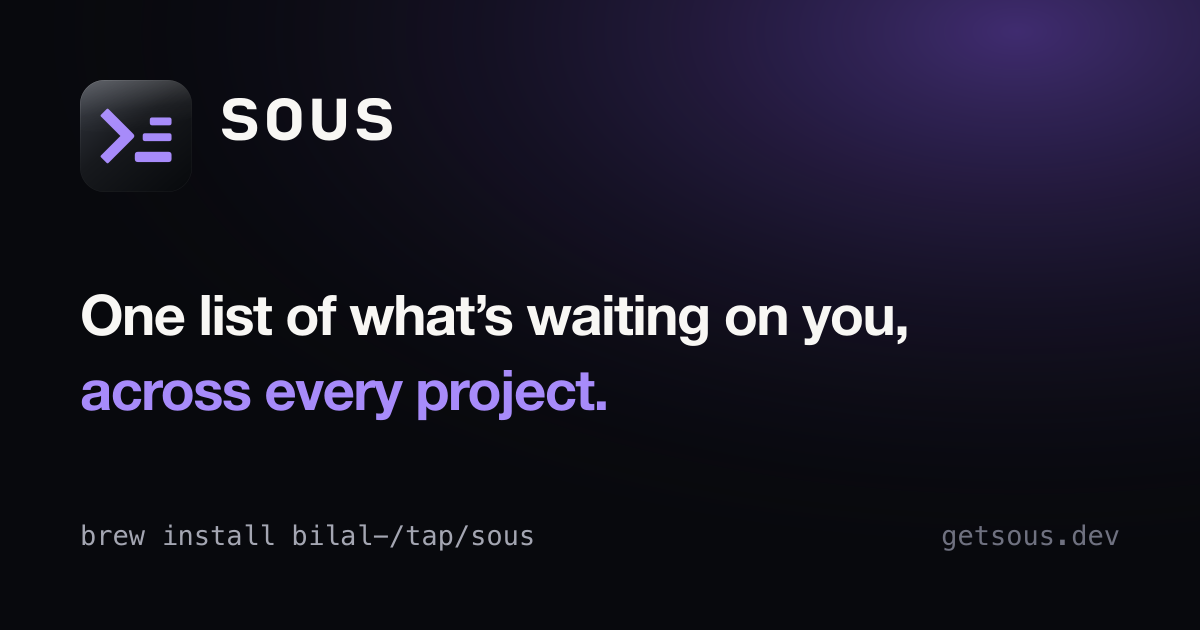
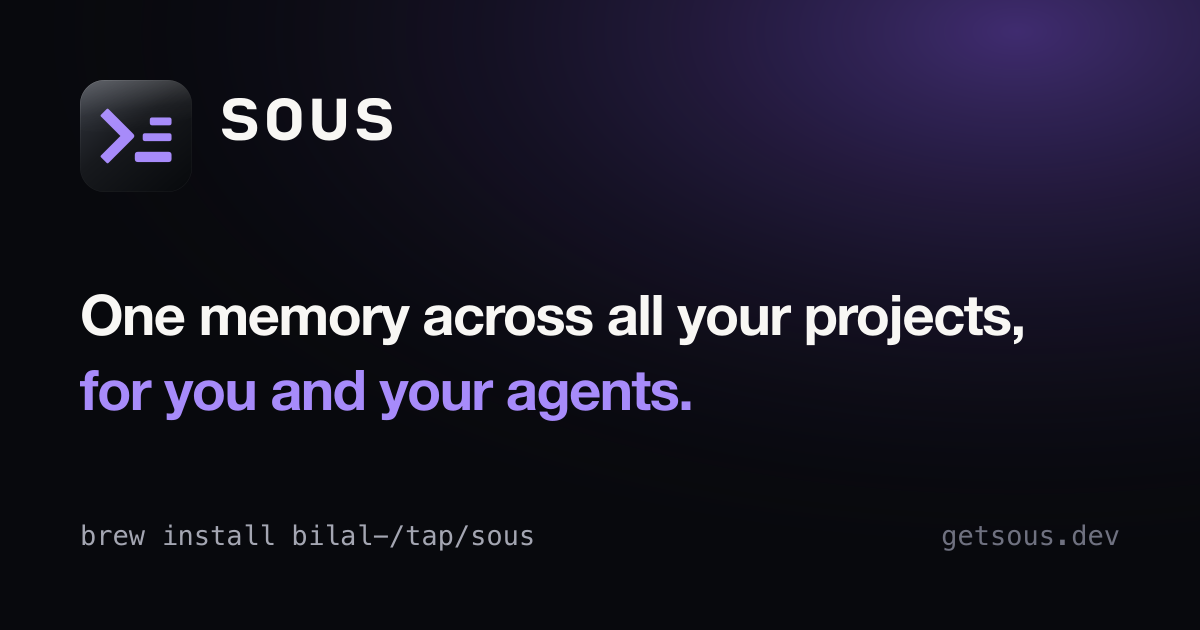
One memory across all your projects, for you and your agents
The pitch now leads with what sous is for: each agent's memory and yours
stays inside one repo, and sous brings what's waiting, where you left off
and what was decided into one place across every project. README, sous
help, the board header, the design doc, the brand kit and the social card
all say it the same way.

Changed region(s): [[0.1542, 0.4524, 0.8633, 0.5429], [0.0617, 0.573, 0.5858, 0.6635]]

diff --git a/internal/board/board.go b/internal/board/board.go
@@ -200,7 +200,7 @@ func waitsOn(after, open []int) string {
 // Header is the line sous prints above the board in a terminal: which sous
 // this is (exe, with ~ for home) and what it does.
 func Header(exe string) string {
-	return "sous · " + exe + " · what is waiting on you across every project"
+	return "sous · " + exe + " · one memory across all your projects"
 }
 
 func Render(w io.Writer, d *Data) { RenderSaved(w, d, d.RenderedAt) }

diff --git a/internal/cli/cli.go b/internal/cli/cli.go
@@ -36,7 +36,7 @@ const (
 // A plain go build says dev, never a release it is not.
 var Version = "dev"
 
-const usageHeader = `sous %s: one list of what is waiting on you, across every project.
+const usageHeader = `sous %s: one memory across all your projects, for you and your agents.
 
   sous              the board: what's waiting on you across all projects
   sous <folder>     board scoped to a folder of repos

diff --git a/internal/cli/axi_test.go b/internal/cli/axi_test.go
@@ -39,7 +39,7 @@ func TestAXI8ContentFirst(t *testing.T) {
 		t.Fatalf("%d\n%s", code, out)
 	}
 	exe, _ := os.Executable()
-	if !strings.Contains(out, stableExe(exe)) || !strings.Contains(out, "what is waiting on you across every project") {
+	if !strings.Contains(out, stableExe(exe)) || !strings.Contains(out, "one memory across all your projects") {
 		t.Fatalf("missing executable and purpose: %s", out)
 	}
 }

diff --git a/README.md b/README.md
@@ -11,20 +11,27 @@
 [![Go](https://img.shields.io/github/go-mod/go-version/bilal-/sous)](go.mod)
 [![AXI](https://img.shields.io/badge/agent%20friendly-AXI-8a2be2)](https://axi.md)
 
-One list of what's waiting on you, across every project you work on.
+One memory across all your projects, for you and your agents.
 
 **[getsous.dev](https://getsous.dev)**
 
-AI tools make it easy to keep ten or twenty projects moving at once. Keeping
-track of them is the hard part. Which project has a review waiting for me?
-Where did I leave off in this one? What did I promise to come back to?
+Each agent's memory stays inside the repo it worked in, and so does yours.
+Step away from a project for a week and you lose track of what you were doing
+and what comes next. sous brings it into one place: what's waiting, where you
+left off, and what was decided, across every project.
 
-sous answers those in one place. It shows up on its own when you open a
-terminal or start an agent session (Claude Code, Codex, Antigravity or
-opencode), so it still works on the days you forget it exists.
+It keeps track on its own. Every time you look, it reads each project's git
+state, your reviews, and the follow-ups and next step the project keeps in
+`FOLLOWUPS.md` and `STATUS.md`. It records how each agent session ended, and
+agents save the decisions and lessons worth keeping, each with its source.
+
+When you open a terminal you see what's waiting across every project. When an
+agent session starts (Claude Code, Codex, Antigravity or opencode), the agent
+is told where you left off in that project and what was decided there. It
+still works on the days you forget sous exists.
 
 ```
-sous · ~/.local/bin/sous · what is waiting on you across every project
+sous · ~/.local/bin/sous · one memory across all your projects
 sous · 2 on you · 1 on others · 2 unfinished
 
   on you

diff --git a/docs/design.md b/docs/design.md
@@ -18,9 +18,10 @@ you have to remember to open has already failed.
 
 ## What sous is
 
-**A personal list of what is waiting on you, across every project and
-tracker you use, that explains itself and gets you back into the project
-you pick. It never takes over how you work.**
+**One memory across all your projects, for you and your agents: what is
+waiting on you in every project and tracker you use, where you left off and
+what was decided, explained in plain words and brought back when you sit
+down to work. It never takes over how you work.**
 
 * **An index of live work, with private memory.** Work lives in git, on GitHub
   or GitLab, or in the project's `FOLLOWUPS.md`. Sous keeps pointers, personal

diff --git a/docs/guide.md b/docs/guide.md
@@ -205,7 +205,7 @@ Your agent runs `sous go billing --run -` with a full brief. Another agent
 starts on it in the background, in its own git worktree, so its edits stay
 apart from your checkout. The board shows it at the top, under in progress:
 
-    sous · ~/.local/bin/sous · what is waiting on you across every project
+    sous · ~/.local/bin/sous · one memory across all your projects
     sous · 1 running
 
       in progress

diff --git a/brand/README.md b/brand/README.md
@@ -1,7 +1,7 @@
 # sous brand kit
 
 The ticket-rail prompt: shellbell's `>_` with two tickets lined up onto the
-cursor. One list of what's waiting on you, across every project.
+cursor. One memory across all your projects, for you and your agents.
 
 <picture><source media="(prefers-color-scheme: dark)" srcset="svg/horizontal-on-dark.svg"><img src="svg/horizontal-on-light.svg" alt="sous" width="220"></picture>
 

diff --git a/CHANGELOG.md b/CHANGELOG.md
@@ -7,6 +7,12 @@ upgraded, never broken.
 
 ## [Unreleased]
 
+### Changed
+
+- sous now describes itself as one memory across all your projects, for you
+  and your agents, in the README, `sous help`, the line above the board, the
+  design doc and the social card.
+
 ### Added
 
 - The board reads each project's own `FOLLOWUPS.md` and `STATUS.md` every
